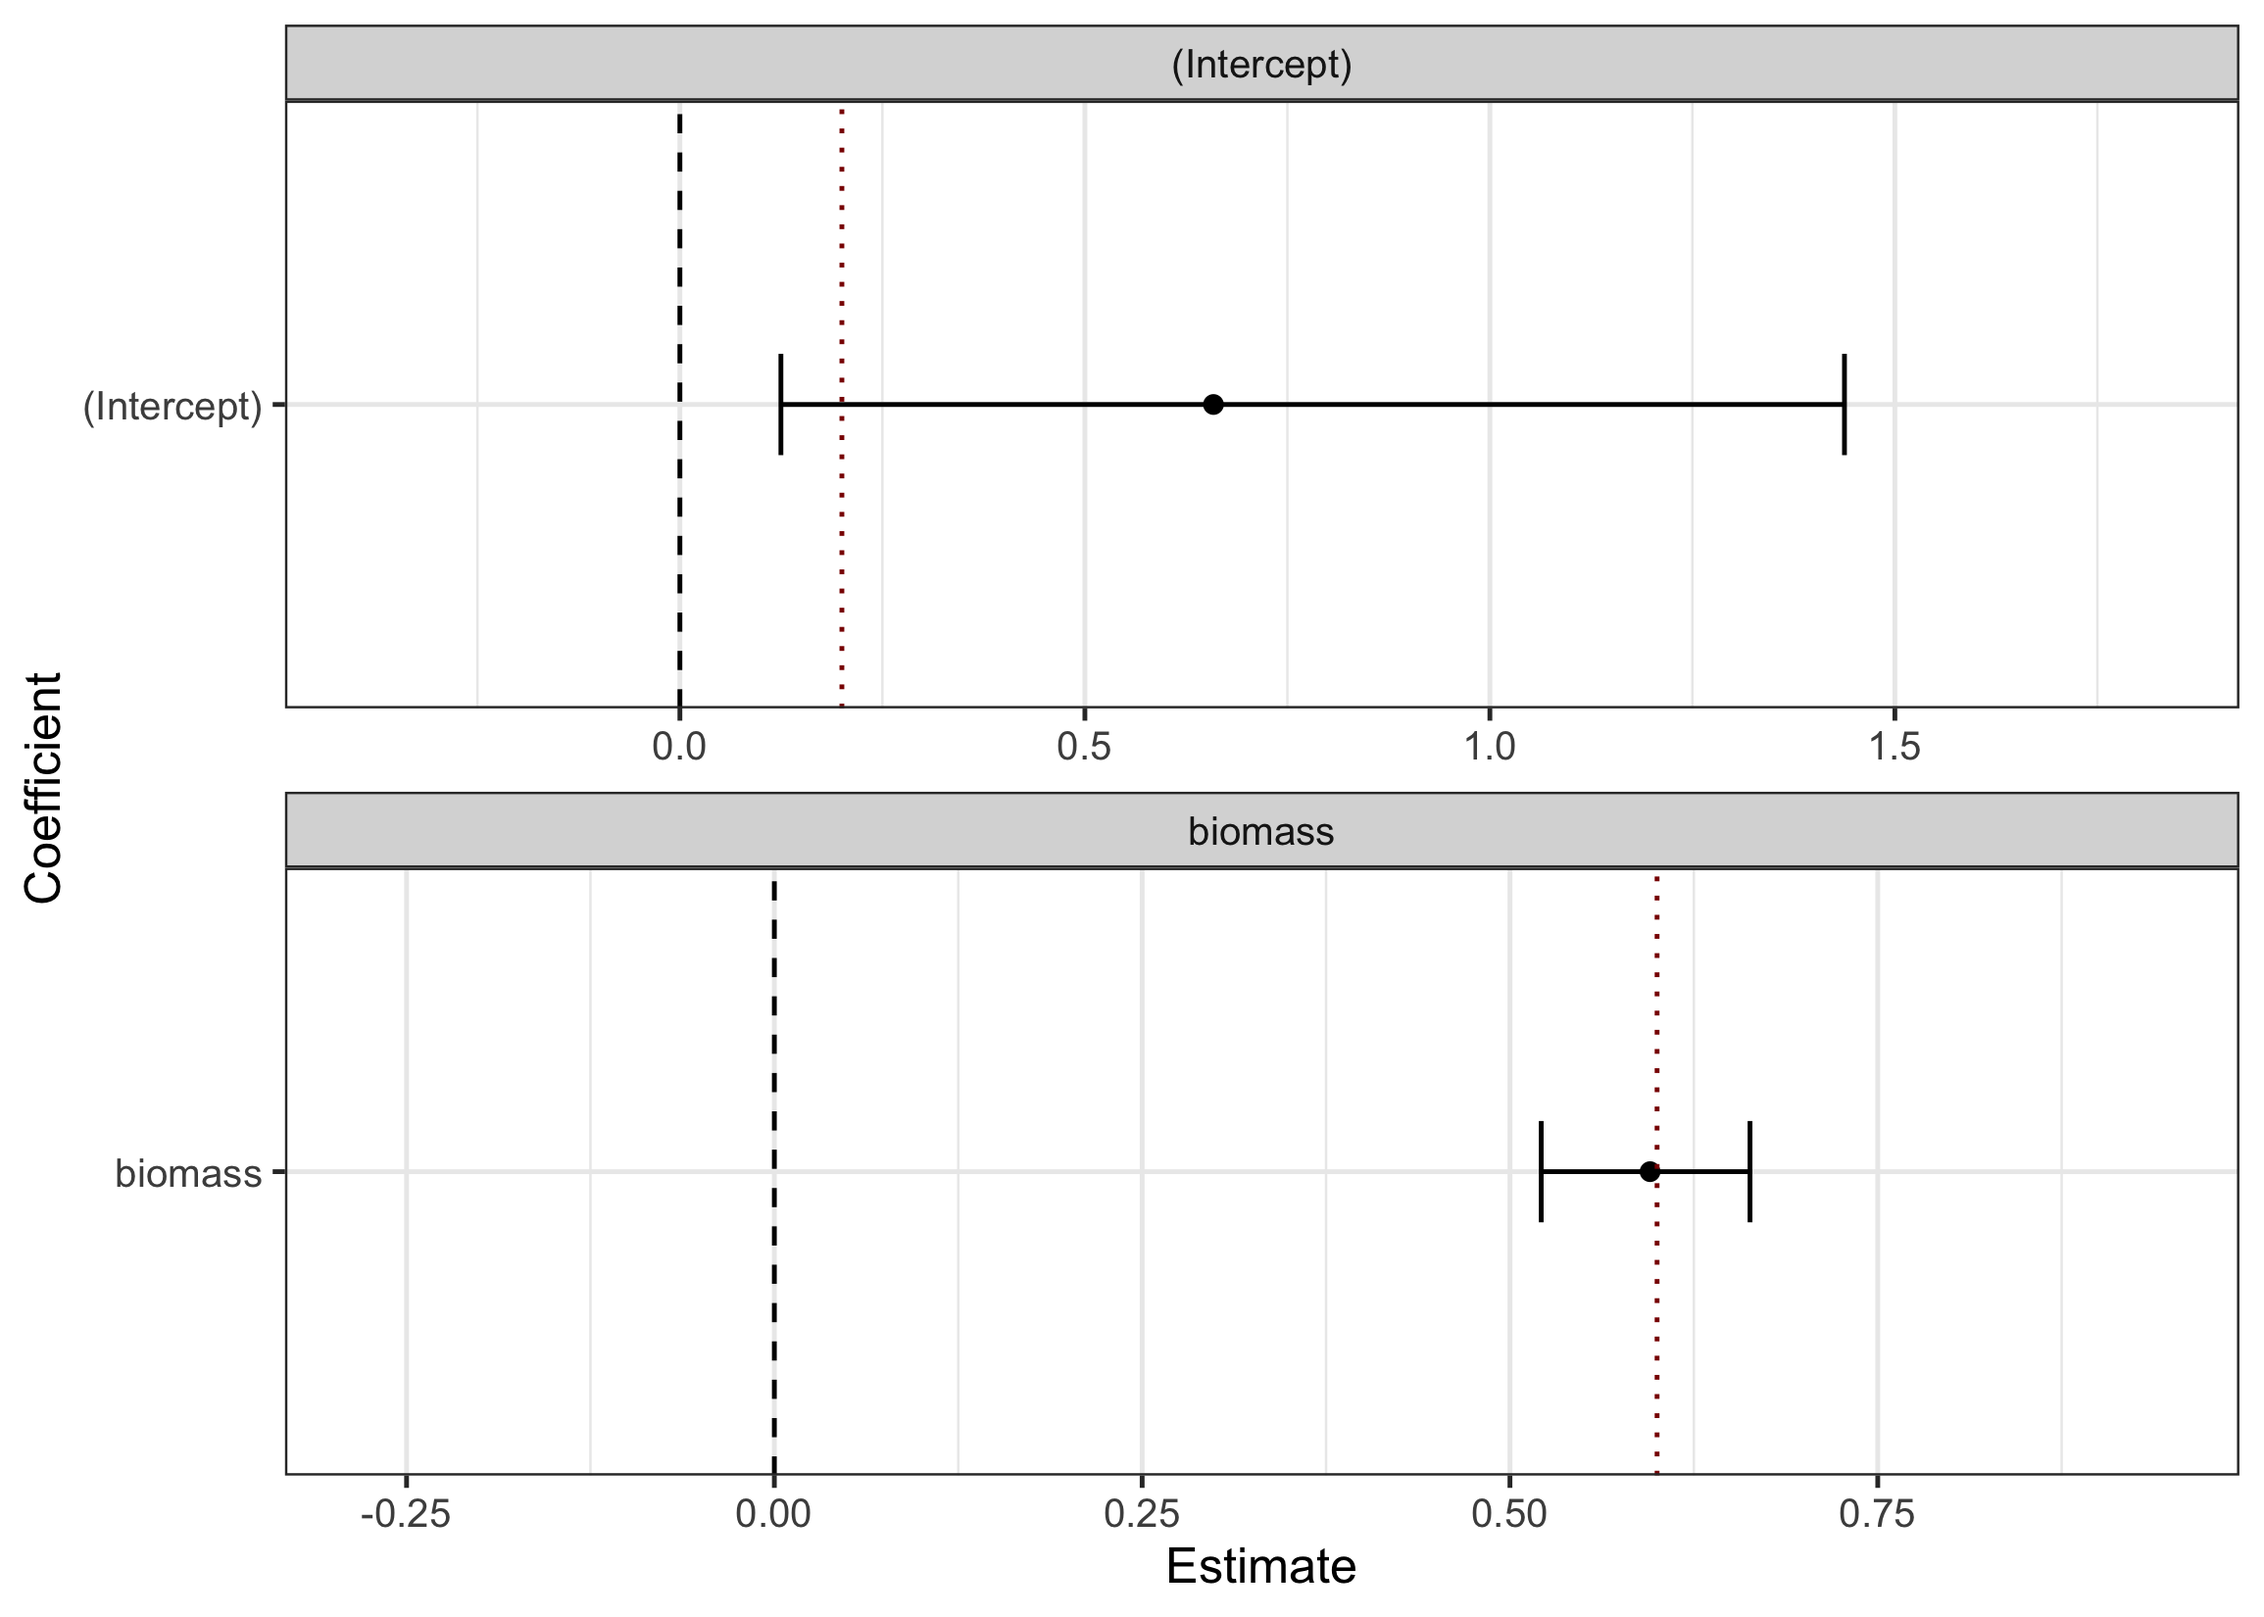
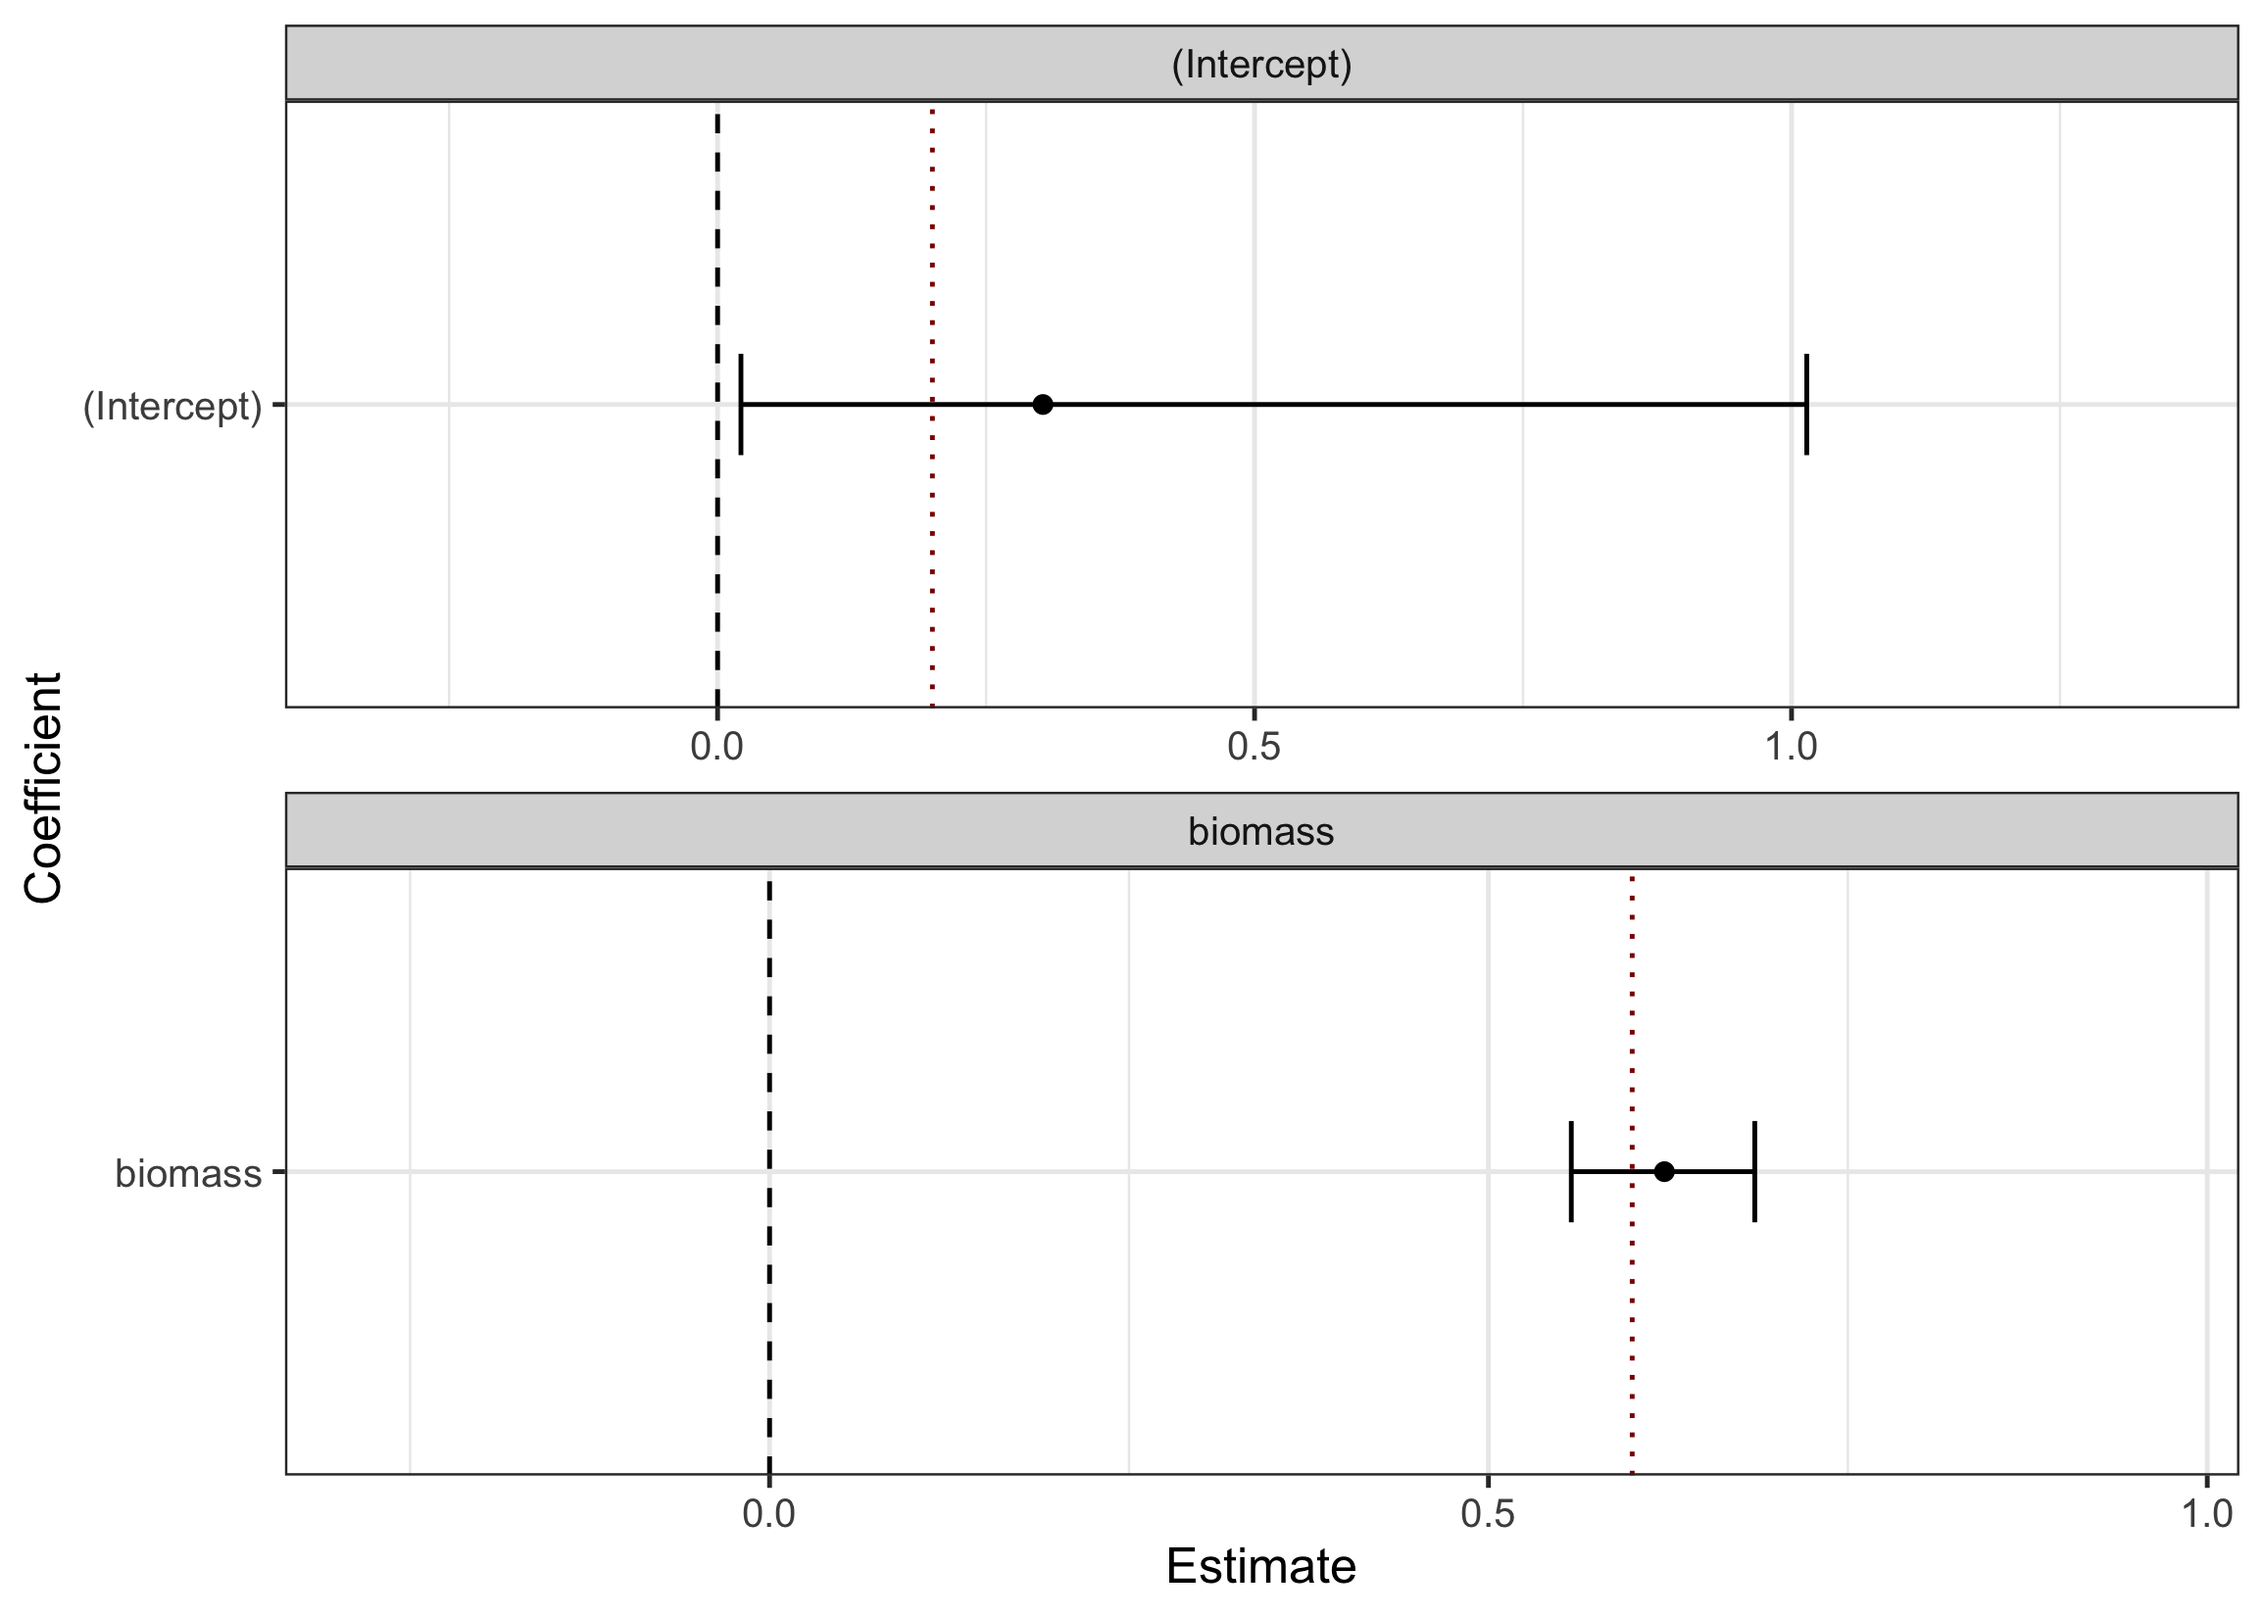
Add pathfinder sampling and initialization

diff --git a/README.md b/README.md
@@ -26,7 +26,9 @@ available.
 Information about laboratory parameters (e.g. partition volume or sample
 dilution) can be provided as priors. The package currently supports
 fixed-effect linear models (identity or log link). Models are fitted
-using `stan` through the `cmdstanr` interface.
+using `stan` through the `cmdstanr` interface, supporting exact
+estimates via MCMC sampling, or fast approximation via pathfinder
+variational inference.
 
 ## Installing the package
 
@@ -139,7 +141,7 @@ fitted_model <- dPCRfit(
         formula = concentration ~ biomass, # linear regression formula
         data = dPCR_data, # our data
         prior_intercept = c(0,1), # standard normal prior for the intercept
-        prior_coefficients = c(0,1), # standard normal prior for the regression coefficient
+        prior_coefficients = c(0,1), # standard normal prior for the regression coefficients
         measurements = concentration_measurements(
           id_col = "sample_id", # name of the column with the sample id
           replicate_col = "replicate_id", # name of the column with the biological replicate id
@@ -153,58 +155,58 @@ fitted_model <- dPCRfit(
 #> Chain 2 Iteration:    1 / 2000 [  0%]  (Warmup) 
 #> Chain 3 Iteration:    1 / 2000 [  0%]  (Warmup) 
 #> Chain 4 Iteration:    1 / 2000 [  0%]  (Warmup) 
-#> Chain 4 Iteration:  200 / 2000 [ 10%]  (Warmup) 
-#> Chain 4 Iteration:  400 / 2000 [ 20%]  (Warmup) 
-#> Chain 4 Iteration:  600 / 2000 [ 30%]  (Warmup) 
 #> Chain 3 Iteration:  200 / 2000 [ 10%]  (Warmup) 
-#> Chain 4 Iteration:  800 / 2000 [ 40%]  (Warmup) 
-#> Chain 3 Iteration:  400 / 2000 [ 20%]  (Warmup) 
-#> Chain 4 Iteration: 1000 / 2000 [ 50%]  (Warmup) 
-#> Chain 4 Iteration: 1001 / 2000 [ 50%]  (Sampling) 
-#> Chain 3 Iteration:  600 / 2000 [ 30%]  (Warmup) 
-#> Chain 3 Iteration:  800 / 2000 [ 40%]  (Warmup) 
 #> Chain 1 Iteration:  200 / 2000 [ 10%]  (Warmup) 
-#> Chain 4 Iteration: 1200 / 2000 [ 60%]  (Sampling) 
-#> Chain 3 Iteration: 1000 / 2000 [ 50%]  (Warmup) 
-#> Chain 3 Iteration: 1001 / 2000 [ 50%]  (Sampling) 
+#> Chain 4 Iteration:  200 / 2000 [ 10%]  (Warmup) 
+#> Chain 3 Iteration:  400 / 2000 [ 20%]  (Warmup) 
 #> Chain 1 Iteration:  400 / 2000 [ 20%]  (Warmup) 
 #> Chain 2 Iteration:  200 / 2000 [ 10%]  (Warmup) 
-#> Chain 3 Iteration: 1200 / 2000 [ 60%]  (Sampling) 
-#> Chain 4 Iteration: 1400 / 2000 [ 70%]  (Sampling) 
+#> Chain 4 Iteration:  400 / 2000 [ 20%]  (Warmup) 
 #> Chain 1 Iteration:  600 / 2000 [ 30%]  (Warmup) 
+#> Chain 3 Iteration:  600 / 2000 [ 30%]  (Warmup) 
+#> Chain 4 Iteration:  600 / 2000 [ 30%]  (Warmup) 
 #> Chain 2 Iteration:  400 / 2000 [ 20%]  (Warmup) 
-#> Chain 3 Iteration: 1400 / 2000 [ 70%]  (Sampling) 
 #> Chain 1 Iteration:  800 / 2000 [ 40%]  (Warmup) 
+#> Chain 3 Iteration:  800 / 2000 [ 40%]  (Warmup) 
+#> Chain 4 Iteration:  800 / 2000 [ 40%]  (Warmup) 
 #> Chain 2 Iteration:  600 / 2000 [ 30%]  (Warmup) 
-#> Chain 3 Iteration: 1600 / 2000 [ 80%]  (Sampling) 
-#> Chain 4 Iteration: 1600 / 2000 [ 80%]  (Sampling) 
 #> Chain 1 Iteration: 1000 / 2000 [ 50%]  (Warmup) 
 #> Chain 1 Iteration: 1001 / 2000 [ 50%]  (Sampling) 
+#> Chain 3 Iteration: 1000 / 2000 [ 50%]  (Warmup) 
+#> Chain 3 Iteration: 1001 / 2000 [ 50%]  (Sampling) 
+#> Chain 4 Iteration: 1000 / 2000 [ 50%]  (Warmup) 
+#> Chain 4 Iteration: 1001 / 2000 [ 50%]  (Sampling) 
 #> Chain 2 Iteration:  800 / 2000 [ 40%]  (Warmup) 
-#> Chain 3 Iteration: 1800 / 2000 [ 90%]  (Sampling) 
 #> Chain 1 Iteration: 1200 / 2000 [ 60%]  (Sampling) 
+#> Chain 3 Iteration: 1200 / 2000 [ 60%]  (Sampling) 
+#> Chain 1 Iteration: 1400 / 2000 [ 70%]  (Sampling) 
 #> Chain 2 Iteration: 1000 / 2000 [ 50%]  (Warmup) 
 #> Chain 2 Iteration: 1001 / 2000 [ 50%]  (Sampling) 
-#> Chain 3 Iteration: 2000 / 2000 [100%]  (Sampling) 
-#> Chain 3 finished in 15.5 seconds.
-#> Chain 4 Iteration: 1800 / 2000 [ 90%]  (Sampling) 
-#> Chain 1 Iteration: 1400 / 2000 [ 70%]  (Sampling) 
+#> Chain 3 Iteration: 1400 / 2000 [ 70%]  (Sampling) 
+#> Chain 4 Iteration: 1200 / 2000 [ 60%]  (Sampling) 
 #> Chain 1 Iteration: 1600 / 2000 [ 80%]  (Sampling) 
+#> Chain 3 Iteration: 1600 / 2000 [ 80%]  (Sampling) 
+#> Chain 4 Iteration: 1400 / 2000 [ 70%]  (Sampling) 
 #> Chain 2 Iteration: 1200 / 2000 [ 60%]  (Sampling) 
-#> Chain 4 Iteration: 2000 / 2000 [100%]  (Sampling) 
-#> Chain 4 finished in 16.7 seconds.
 #> Chain 1 Iteration: 1800 / 2000 [ 90%]  (Sampling) 
-#> Chain 2 Iteration: 1400 / 2000 [ 70%]  (Sampling) 
+#> Chain 3 Iteration: 1800 / 2000 [ 90%]  (Sampling) 
 #> Chain 1 Iteration: 2000 / 2000 [100%]  (Sampling) 
-#> Chain 1 finished in 17.6 seconds.
+#> Chain 1 finished in 8.4 seconds.
+#> Chain 3 Iteration: 2000 / 2000 [100%]  (Sampling) 
+#> Chain 4 Iteration: 1600 / 2000 [ 80%]  (Sampling) 
+#> Chain 3 finished in 8.3 seconds.
+#> Chain 2 Iteration: 1400 / 2000 [ 70%]  (Sampling) 
+#> Chain 4 Iteration: 1800 / 2000 [ 90%]  (Sampling) 
 #> Chain 2 Iteration: 1600 / 2000 [ 80%]  (Sampling) 
+#> Chain 4 Iteration: 2000 / 2000 [100%]  (Sampling) 
+#> Chain 4 finished in 10.2 seconds.
 #> Chain 2 Iteration: 1800 / 2000 [ 90%]  (Sampling) 
 #> Chain 2 Iteration: 2000 / 2000 [100%]  (Sampling) 
-#> Chain 2 finished in 20.1 seconds.
+#> Chain 2 finished in 11.8 seconds.
 #> 
 #> All 4 chains finished successfully.
-#> Mean chain execution time: 17.5 seconds.
-#> Total execution time: 20.4 seconds.
+#> Mean chain execution time: 9.7 seconds.
+#> Total execution time: 11.9 seconds.
 ```
 
 ## Results
@@ -219,9 +221,9 @@ summary(fitted_model)
 #> Number of observations: 100 
 #> 
 #> Coefficients:
-#> variable     mean    median  sd       mad      q5      q95     rhat   ess_bulk  ess_tail
-#> (Intercept)  0.7032  0.6587  0.40681  0.42038  0.1247  1.4378  1.001  2779      1702    
-#> biomass      0.5938  0.5952  0.04251  0.04205  0.5213  0.6632  1.001  4229      3191    
+#> variable     mean    median  sd      mad     q5       q95     rhat   ess_bulk  ess_tail
+#> (Intercept)  0.3826  0.3029  0.3172  0.2921  0.02174  1.0142  1.002  2623      1882    
+#> biomass      0.6219  0.6224  0.0382  0.0373  0.55763  0.6853  1.001  4863      2922    
 #> 
 #> Fitted via MCMC using 4 chains with each:
 #> 1000 warm-up iterations
